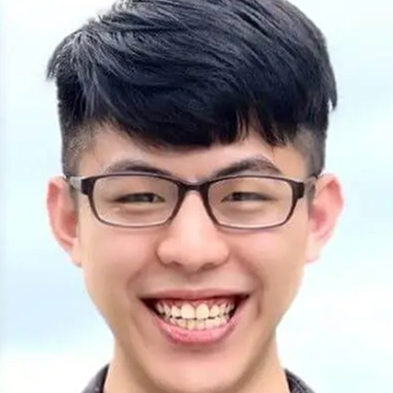
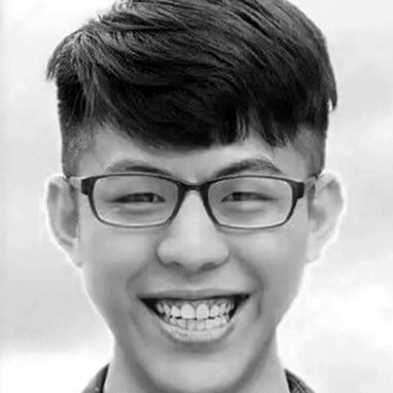
updated seoul map description, updated photos to black and white

diff --git a/content/zh/posts/korea-seoul-metro-map/index.md b/content/zh/posts/korea-seoul-metro-map/index.md
@@ -1,8 +1,9 @@
 ---
-title: 首爾地鐵圖繁體中文 PDF 高解析檔｜免費下載，離線也能用！
-slug: "首爾地鐵圖繁體中文高解析檔免費下載"
+title: 首爾地鐵圖繁體中文 PDF 高解析檔｜銅板價就能下載，離線也能用！
+slug: "首爾地鐵圖繁體中文高解析檔下載"
 aliases:
 - 首爾地鐵圖繁體中文高解析檔
+- 首爾地鐵圖繁體中文高解析檔免費下載
 date: 2025-04-17
 description: "繁體中文版的首爾地鐵圖終於來了！我們提供的 PDF 高解析檔案，不論你怎麼放大，所有資訊都依然保持超清晰！"
 draft: false
@@ -29,7 +30,9 @@ city: "首爾"
 
 ## 如何下載首爾地鐵繁體中文圖？
 
- 點擊下方連結或按鈕後，輸入電子信箱就可以免費下載！建議出發前先存到手機備用。
+ 點擊下方連結或按鈕後，只要銅板價就能下載！你的購買實質、直接的幫助 ExitTaiwan 網站的營運，提供台灣人更多國外自由行的好用資源。
+ 
+ *建議出發前先存到手機備用。
 
 > [點我下載韓國首爾地鐵圖（繁體中文｜韓文對照 PDF 版）](https://exittaiwan.gumroad.com/l/seoul-metro)
 
